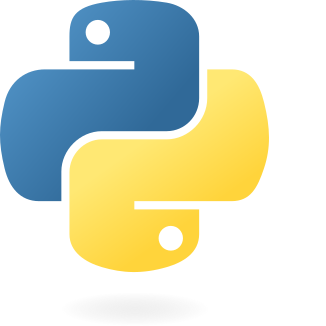
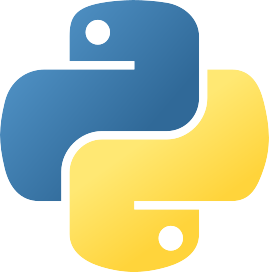
img3

diff --git a/index.html b/index.html
@@ -118,7 +118,7 @@
             </div>
 
             <div class="item">
-                <figure class="image"><img src="python.png"></figure>
+                <figure class="image"><img src="python2.png"></figure>
                 <h4 class="title">Python</h4>
                 <p class="description">
                     主に授業、また個人でもGoogle Colaboratoryで学習しました。</p>
